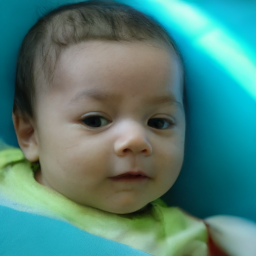
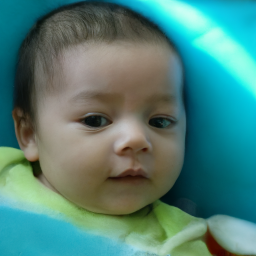
First attempt at batched generation, still only works for batch_size=1

diff --git a/guided_diffusion/measurements.py b/guided_diffusion/measurements.py
@@ -162,25 +162,67 @@ class BlindBlurOperator(LinearOperator):
     def transpose(self, data, **kwargs):
         return data
     
-    def apply_kernel(self, data, kernel):
-        #TODO: faster way to apply conv?:W
-        
-        # b_img = torch.zeros_like(data).to(self.device)
+    # def apply_kernel(self, data, kernel):
 
-        # for i in range(3):
-        #     b_img[:, i, :, :] = F.conv2d(data[:, i:i+1, :, :], kernel, padding='same')
-        # return b_img
+    #      #TODO: faster way to apply conv?:W BlindDPS original implementation
+
+    #     b_img = torch.zeros_like(data).to(self.device)
+
+    #     for i in range(3):
+    #         b_img[:, i, :, :] = F.conv2d(data[:, i:i+1, :, :], kernel, padding='same')
+    #     return b_img
+    
+    
+    
+    # def apply_kernel(self, data, kernel):
+
+    #     # Our implementation for batch_size of generated images is 1
+
+    #     k_size = kernel.shape[-1]
+    #     C_in = data.shape[1]  # RGB channels, typically 3
+
+    #     k_expanded = kernel.expand(C_in, 1, k_size, k_size) 
+    #     # print('k_expanded shape = ', k_expanded.shape)
+
+    #     out_img = F.conv2d(data, k_expanded, groups=C_in, padding='same')
+    #     # print('out_img shape = ', out_img.shape)
+
+    #     return out_img
+    
+
+    def apply_kernel(self, data, kernel):
+
+        """
+        :param data: input image tensor of shape (batch_size, channels, height, width)
+        :param kernel: kernel tensor of shape (batch_size, 1, kernel_size, kernel_size)
+        """
+
+        # Our implementation to accomodate batch_size of generated images >= 1
 
         k_size = kernel.shape[-1]
         C_in = data.shape[1]  # RGB channels, typically 3
+        batch_size = data.shape[0]
+        H, W = data.shape[-2], data.shape[-1]
 
-        k_expanded = kernel.expand(C_in, 1, k_size, k_size) 
-        # print('k_expanded shape = ', k_expanded.shape)
+        kernel_ = kernel.unsqueeze(1)  # (batch_size, 1, 1, kernel_size, kernel_size)
+        print('kernel_ shape = ', kernel_.shape)
 
-        out_img = F.conv2d(data, k_expanded, groups=C_in, padding='same')
-        # print('out_img shape = ', out_img.shape)
+        k_expanded = kernel_.expand(batch_size, C_in, 1, k_size, k_size) # (batch_size, C_in, 1, kernel_size, kernel_size)
+        print('k_expanded shape = ', k_expanded.shape)
 
-        return out_img
+        k_grouped = k_expanded.reshape(batch_size * C_in, 1, k_size, k_size) # (batch_size * C_in, 1, kernel_size, kernel_size)
+        print('k_grouped shape = ', k_grouped.shape)
+
+        data_grouped = data.reshape(1, batch_size * C_in, H, W)
+        print('data_grouped shape = ', data_grouped.shape)
+
+        out_grouped = F.conv2d(data_grouped, k_grouped, groups=batch_size * C_in, padding='same')
+
+        out = out_grouped.reshape(batch_size, C_in, H, W)
+        
+        print('out shape = ', out.shape)
+
+        return out
 
         
 

diff --git a/solve_inv_problems.py b/solve_inv_problems.py
@@ -120,7 +120,7 @@ def main():
     dataset = get_dataset(**data_config, transforms=transform)
 
     subset = Subset(dataset, range(args.n_gen_samples))
-    loader = get_dataloader(subset, batch_size=1, num_workers=0, train=False) 
+    loader = get_dataloader(subset, batch_size=args.n_gen_samples, num_workers=0, train=False) 
 
     # set seed for reproduce
     np.random.seed(123)
@@ -134,17 +134,30 @@ def main():
         # print('ref_img shape = ', ref_img.shape)
 
         if args.kernel == 'motion':
-            kernel = Kernel(size=(args.kernel_size, args.kernel_size), intensity=args.intensity).kernelMatrix
-            kernel = torch.from_numpy(kernel).type(torch.float32)
-            kernel = kernel.to(device).view(1, 1, args.kernel_size, args.kernel_size)
+            kernels = []
+            for i in range(ref_img.shape[0]):
+                kernel = Kernel(size=(args.kernel_size, args.kernel_size), intensity=args.intensity).kernelMatrix
+                kernels.append(torch.from_numpy(kernel).type(torch.float32))
+            kernel = torch.stack(kernels).to(device).view(ref_img.shape[0], 1, args.kernel_size, args.kernel_size)
+
         elif args.kernel == 'gaussian':
-            conv = Blurkernel('gaussian', kernel_size=args.kernel_size, device=device)
-            kernel = conv.get_kernel().type(torch.float32)
-            kernel = kernel.to(device).view(1, 1, args.kernel_size, args.kernel_size)
+            kernels = []
+            for i in range(ref_img.shape[0]):
+                kernel = Blurkernel('gaussian', kernel_size=args.kernel_size, device=device).get_kernel().type(torch.float32)
+                kernels.append(kernel)
+            kernel = torch.stack(kernels).to(device).view(ref_img.shape[0], 1, args.kernel_size, args.kernel_size)
+
+        print('kernel shape = ', kernel.shape)
+        print('ref_img shape = ', ref_img.shape)
         
         # Forward measurement model (Ax + n)
         y = operator.forward(ref_img, kernel)
         y_n = noiser(y)
+
+        for i, img in enumerate(y_n):
+            # print('img shape = ', img.shape)
+            plt.imsave(os.path.join(out_path, 'input', f'batched_{i}_{fname}'), clear_color(img.unsqueeze(0)))
+
 
         # print('ref_img shape = ', ref_img.shape)
         # print('kernel shape = ', kernel.shape)

diff --git a/guided_diffusion/gaussian_diffusion.py b/guided_diffusion/gaussian_diffusion.py
@@ -367,7 +367,7 @@ class DDPM(SpacedDiffusion):
         sample = out['mean']
 
         noise = torch.randn_like(x)
-        if t != 0:  # no noise when t == 0
+        if t.all() != 0:  # no noise when t == 0
             noisy_sample = sample + torch.exp(0.5 * out['log_variance']) * noise
         else:
             noisy_sample = sample + noise * t  # TODO fix this as it seems wrong
@@ -427,6 +427,8 @@ class BlindDPS(DDPM):
         pbar = tqdm(list(range(self.num_timesteps))[::-1])
         for idx in pbar:
             time = torch.tensor([idx] * batch_size, device=device)
+
+            print('time = ', time)
 
             x_prev = dict((k, v.requires_grad_()) for k, v in x_prev.items())
             
